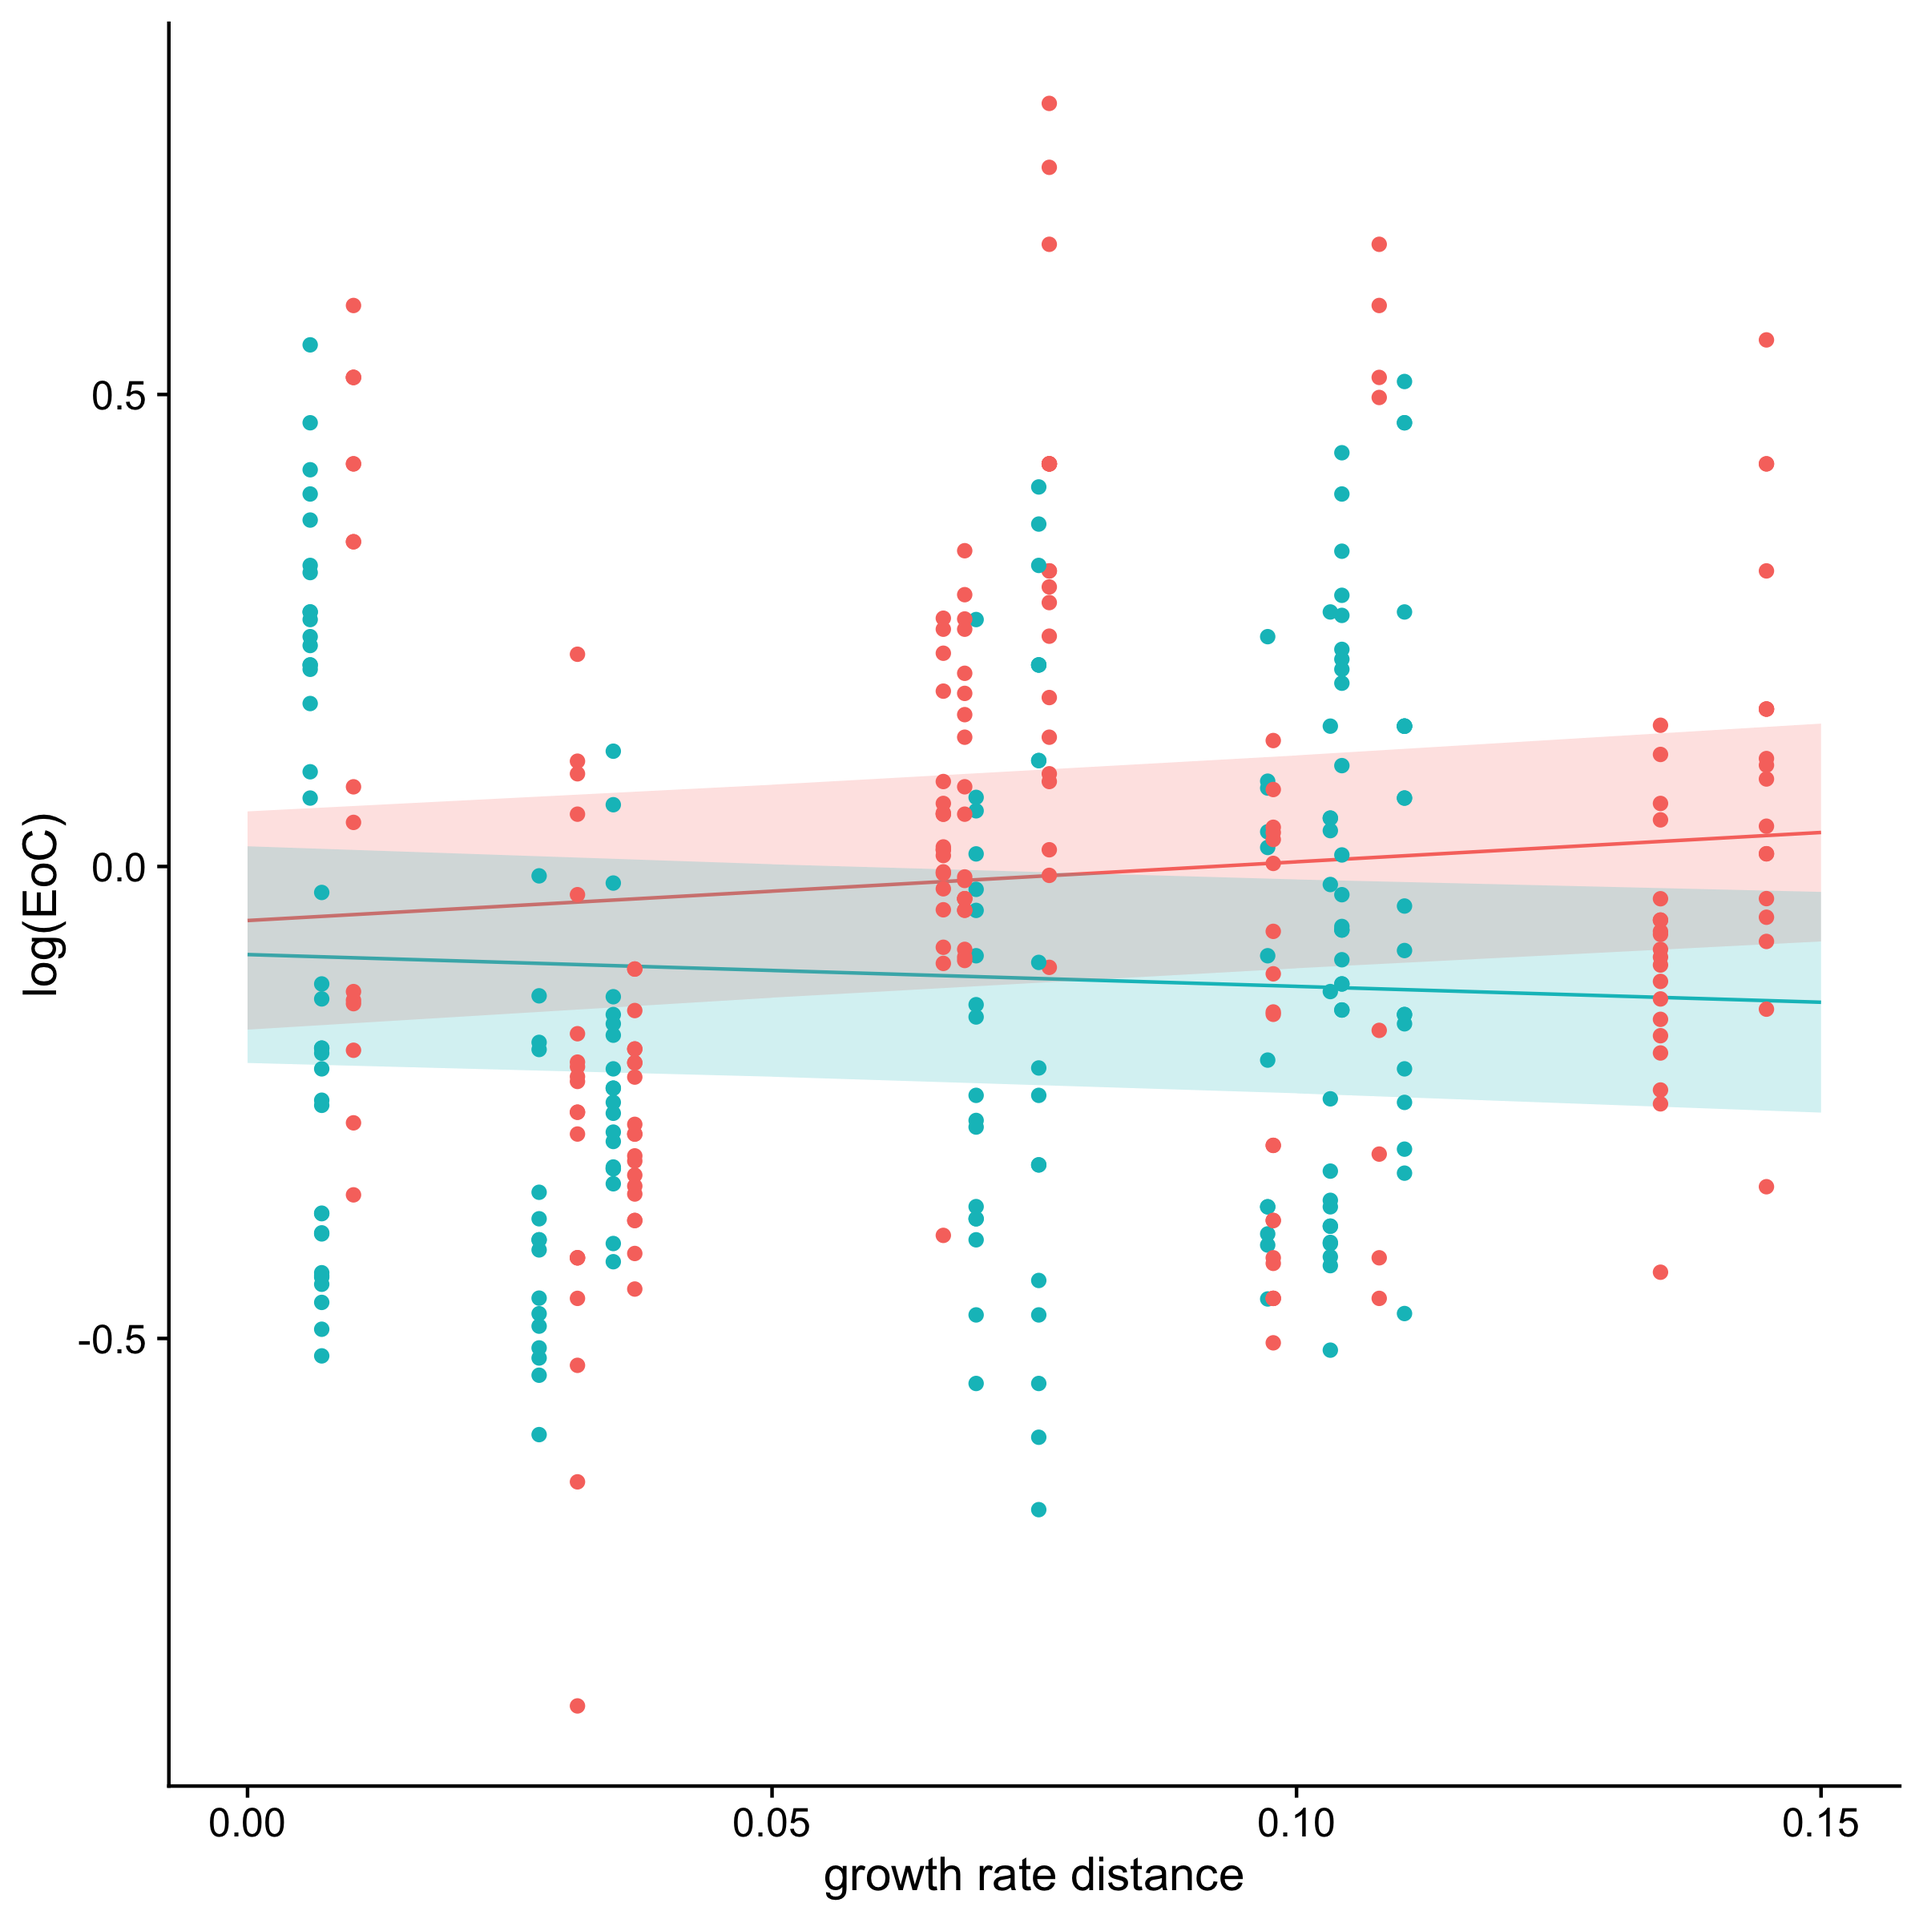
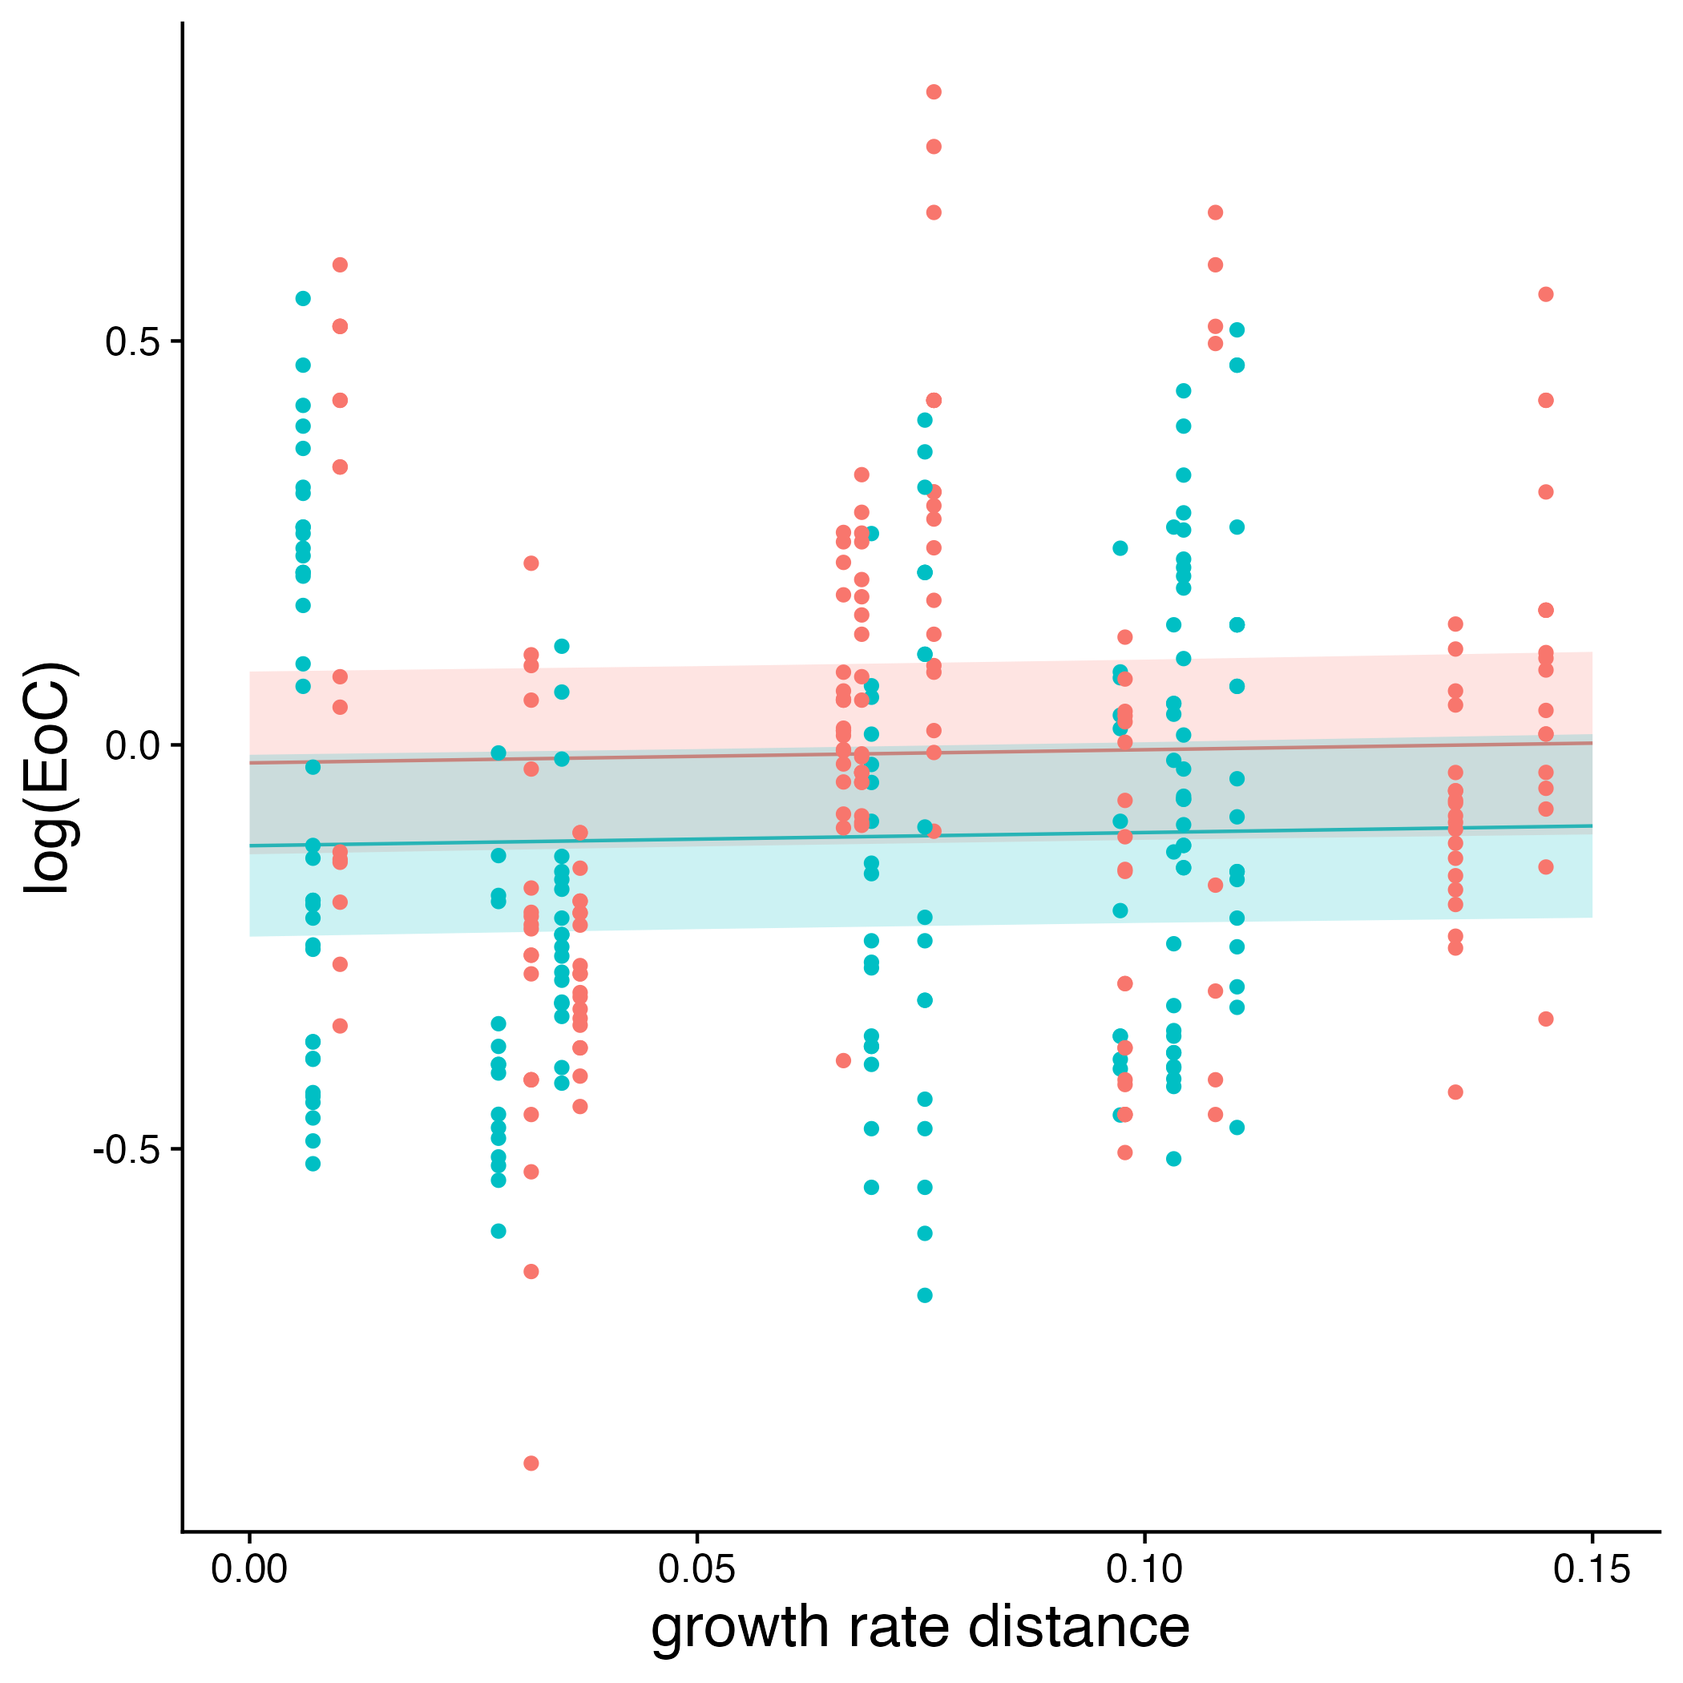
Organize

diff --git a/Tables/mod_EOCrdiff_distbay.htm b/Tables/mod_EOCrdiff_distbay.htm
@@ -4,28 +4,25 @@
 <tr><td style="text-align:left"></td><td colspan="2">EoC</td></tr>
 <tr><td style="text-align:left"></td><td>Growth Rate-based</td><td>Phylogenetic-based</td></tr>
 <tr><td style="text-align:left"></td><td>(1)</td><td>(2)</td></tr>
-<tr><td colspan="3" style="border-bottom: 1px solid black"></td></tr><tr><td style="text-align:left">Growth Rate Distance</td><td>0.622</td><td></td></tr>
-<tr><td style="text-align:left"></td><td>(0.353)</td><td></td></tr>
+<tr><td colspan="3" style="border-bottom: 1px solid black"></td></tr><tr><td style="text-align:left">Growth Rate Distance</td><td>0.163</td><td></td></tr>
+<tr><td style="text-align:left"></td><td>(0.258)</td><td></td></tr>
 <tr><td style="text-align:left"></td><td></td><td></td></tr>
 <tr><td style="text-align:left">Phylogenetic Distance</td><td></td><td>0.304<sup>**</sup></td></tr>
 <tr><td style="text-align:left"></td><td></td><td>(0.113)</td></tr>
 <tr><td style="text-align:left"></td><td></td><td></td></tr>
-<tr><td style="text-align:left">pH 7</td><td>-0.036</td><td>0.055</td></tr>
-<tr><td style="text-align:left"></td><td>(0.041)</td><td>(0.076)</td></tr>
-<tr><td style="text-align:left"></td><td></td><td></td></tr>
-<tr><td style="text-align:left">Growth Rate Distance:pH 7</td><td>-0.959</td><td></td></tr>
-<tr><td style="text-align:left"></td><td>(0.507)</td><td></td></tr>
+<tr><td style="text-align:left">pH 7</td><td>-0.102<sup>***</sup></td><td>0.055</td></tr>
+<tr><td style="text-align:left"></td><td>(0.021)</td><td>(0.076)</td></tr>
 <tr><td style="text-align:left"></td><td></td><td></td></tr>
 <tr><td style="text-align:left">Phylogenetic Distance:pH 7</td><td></td><td>-0.331<sup>*</sup></td></tr>
 <tr><td style="text-align:left"></td><td></td><td>(0.150)</td></tr>
 <tr><td style="text-align:left"></td><td></td><td></td></tr>
-<tr><td style="text-align:left">Constant</td><td>-0.057</td><td>-0.156</td></tr>
-<tr><td style="text-align:left"></td><td>(0.116)</td><td>(0.120)</td></tr>
+<tr><td style="text-align:left">Constant</td><td>-0.022</td><td>-0.156</td></tr>
+<tr><td style="text-align:left"></td><td>(0.113)</td><td>(0.120)</td></tr>
 <tr><td style="text-align:left"></td><td></td><td></td></tr>
-<tr><td colspan="3" style="border-bottom: 1px solid black"></td></tr><tr><td style="text-align:left">Conditional pseudo-R2</td><td>0.6696</td><td>0.6159</td></tr>
+<tr><td colspan="3" style="border-bottom: 1px solid black"></td></tr><tr><td style="text-align:left">Conditional pseudo-R2</td><td>0.6672</td><td>0.6159</td></tr>
 <tr><td style="text-align:left">Observations</td><td>362</td><td>362</td></tr>
-<tr><td style="text-align:left">Log Likelihood</td><td>77.770</td><td>77.239</td></tr>
-<tr><td style="text-align:left">Akaike Inf. Crit.</td><td>-141.540</td><td>-140.478</td></tr>
-<tr><td style="text-align:left">Bayesian Inf. Crit.</td><td>-114.298</td><td>-113.237</td></tr>
+<tr><td style="text-align:left">Log Likelihood</td><td>75.758</td><td>77.239</td></tr>
+<tr><td style="text-align:left">Akaike Inf. Crit.</td><td>-139.516</td><td>-140.478</td></tr>
+<tr><td style="text-align:left">Bayesian Inf. Crit.</td><td>-116.166</td><td>-113.237</td></tr>
 <tr><td colspan="3" style="border-bottom: 1px solid black"></td></tr><tr><td style="text-align:left"><em>Note:</em></td><td colspan="2" style="text-align:right"><sup>*</sup>p<0.05; <sup>**</sup>p<0.01; <sup>***</sup>p<0.001</td></tr>
 </table>

diff --git a/Tables/mod_rdist_phylodiff.htm b/Tables/mod_rdist_phylodiff.htm
@@ -2,22 +2,16 @@
 <table style="text-align:center"><tr><td colspan="2" style="border-bottom: 1px solid black"></td></tr><tr><td style="text-align:left"></td><td><em>Dependent variable:</em></td></tr>
 <tr><td></td><td colspan="1" style="border-bottom: 1px solid black"></td></tr>
 <tr><td style="text-align:left"></td><td>Phylogenetic Distance</td></tr>
-<tr><td colspan="2" style="border-bottom: 1px solid black"></td></tr><tr><td style="text-align:left">Growth Rate Distance</td><td>-0.602<sup>*</sup></td></tr>
-<tr><td style="text-align:left"></td><td>(0.239)</td></tr>
+<tr><td colspan="2" style="border-bottom: 1px solid black"></td></tr><tr><td style="text-align:left">Growth Rate Distance</td><td>-0.177</td></tr>
+<tr><td style="text-align:left"></td><td>(0.173)</td></tr>
 <tr><td style="text-align:left"></td><td></td></tr>
-<tr><td style="text-align:left">pH 7</td><td>-0.049</td></tr>
-<tr><td style="text-align:left"></td><td>(0.028)</td></tr>
+<tr><td style="text-align:left">Constant</td><td>0.500<sup>***</sup></td></tr>
+<tr><td style="text-align:left"></td><td>(0.015)</td></tr>
 <tr><td style="text-align:left"></td><td></td></tr>
-<tr><td style="text-align:left">Growth Rate Distance:pH 7</td><td>0.950<sup>**</sup></td></tr>
-<tr><td style="text-align:left"></td><td>(0.348)</td></tr>
-<tr><td style="text-align:left"></td><td></td></tr>
-<tr><td style="text-align:left">Constant</td><td>0.524<sup>***</sup></td></tr>
-<tr><td style="text-align:left"></td><td>(0.021)</td></tr>
-<tr><td style="text-align:left"></td><td></td></tr>
-<tr><td colspan="2" style="border-bottom: 1px solid black"></td></tr><tr><td style="text-align:left">Observations</td><td>362</td></tr>
-<tr><td style="text-align:left">R<sup>2</sup></td><td>0.027</td></tr>
-<tr><td style="text-align:left">Adjusted R<sup>2</sup></td><td>0.019</td></tr>
-<tr><td style="text-align:left">Residual Std. Error</td><td>0.134 (df = 358)</td></tr>
-<tr><td style="text-align:left">F Statistic</td><td>3.326<sup>*</sup> (df = 3; 358)</td></tr>
+<tr><td colspan="2" style="border-bottom: 1px solid black"></td></tr><tr><td style="text-align:left">Conditional pseudo-R2</td><td>0.0047</td></tr>
+<tr><td style="text-align:left">Observations</td><td>362</td></tr>
+<tr><td style="text-align:left">Log Likelihood</td><td>206.278</td></tr>
+<tr><td style="text-align:left">Akaike Inf. Crit.</td><td>-404.557</td></tr>
+<tr><td style="text-align:left">Bayesian Inf. Crit.</td><td>-388.990</td></tr>
 <tr><td colspan="2" style="border-bottom: 1px solid black"></td></tr><tr><td style="text-align:left"><em>Note:</em></td><td style="text-align:right"><sup>*</sup>p<0.05; <sup>**</sup>p<0.01; <sup>***</sup>p<0.001</td></tr>
 </table>
